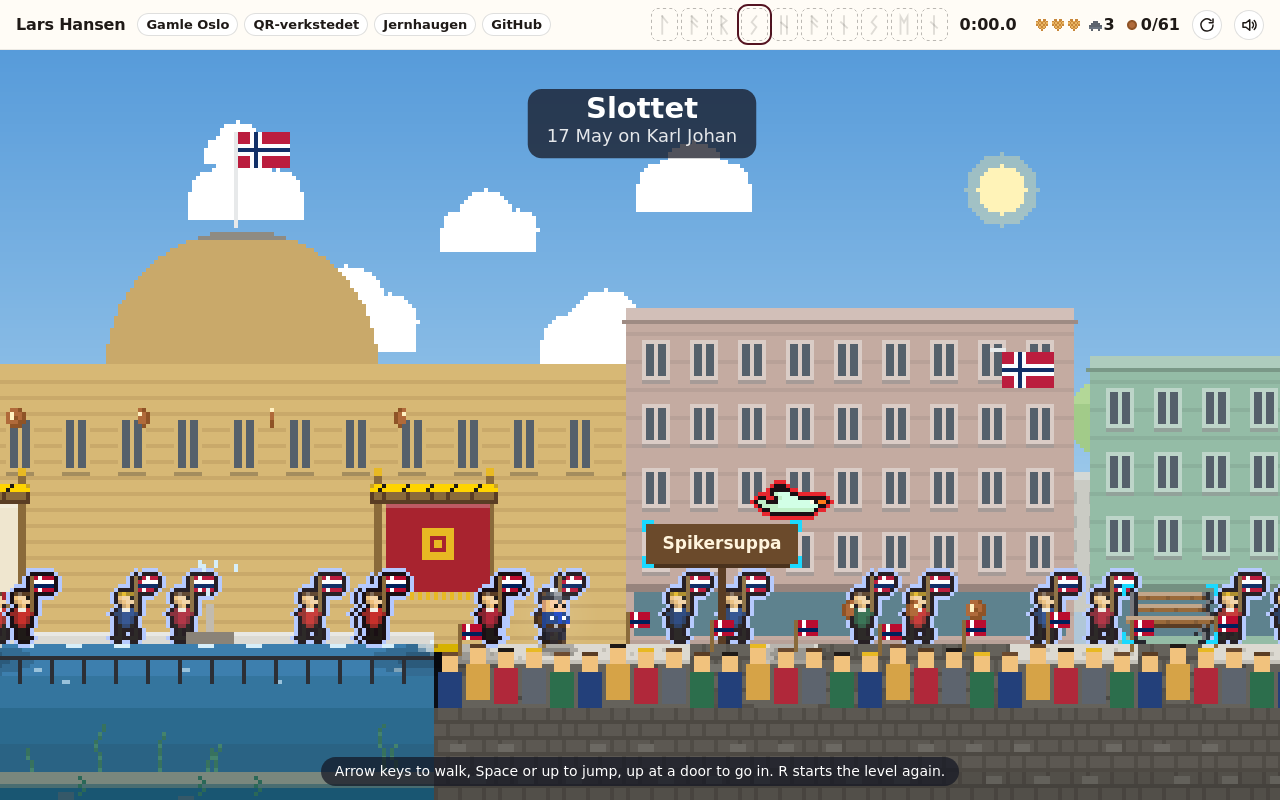
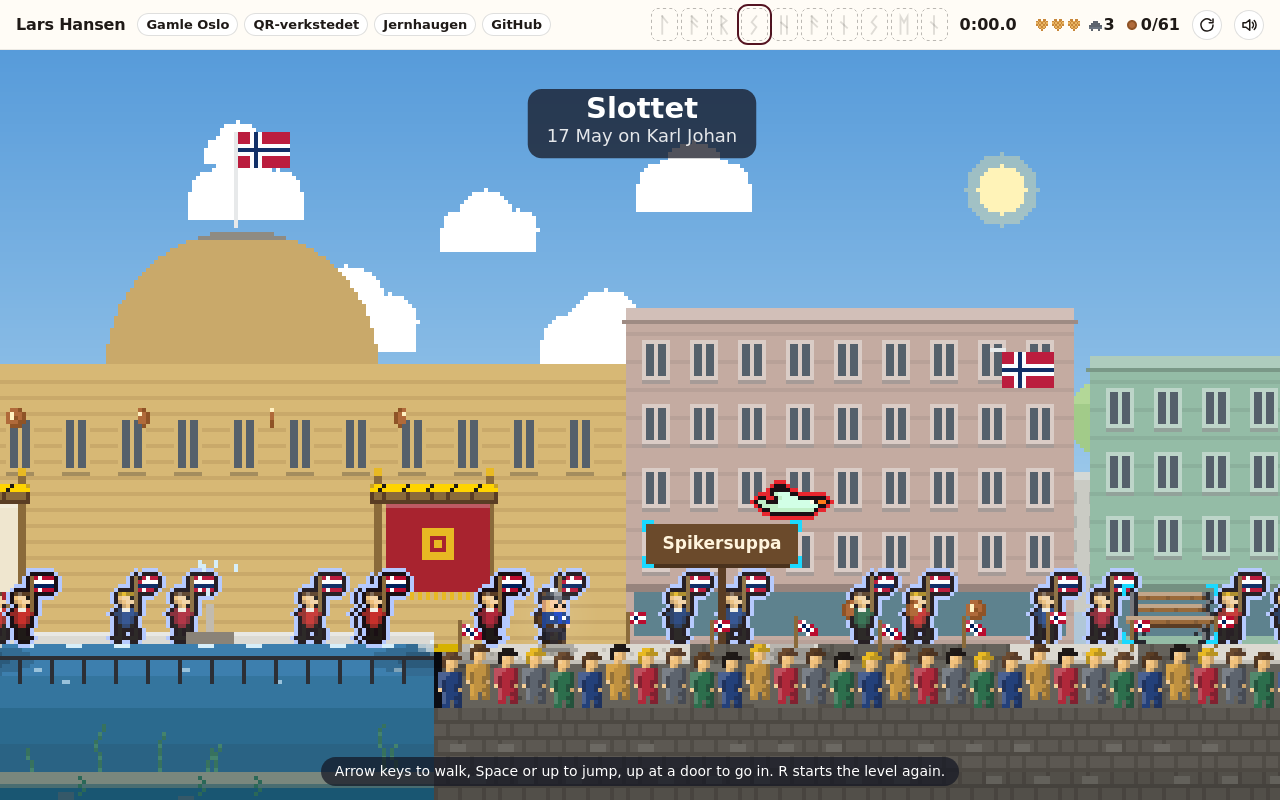
LEVELS.html's pictures taken again (the facts unchanged); the handover's order 25 section

Changed region(s): [[0.3438, 0.75, 1.0, 0.9062], [0.4688, 0.75, 0.5312, 0.7812], [0.8125, 0.75, 0.8438, 0.7812]]

diff --git a/docs/games/HANDOVER.md b/docs/games/HANDOVER.md
@@ -429,6 +429,32 @@ Order 24 (`orders/24-line-one-redrawn.md`; DESIGN's "Frames, shadows and depth";
   is for Lars to choose.
 - **Unplayed**: none of it has been seen at speed or on a phone.
 
+## Order 25: line 2 redrawn
+
+Order 25 (`orders/25-line-two-redrawn.md`; DESIGN's "Frames, shadows and depth"; numbers in `apps/viking/tools/review/o25/`). What to know:
+- **Everything that moves or is picked up is drawn as frames** (ADR 0045, carried through): line 2's own kinds in their levels'
+  files, the sea serpent (its head a map, its body, coils and tail in five tones of scale, every tell where it was), the heron,
+  line 2's shots; and what a walk through all sixteen levels and the map found still in rectangles: him lying back on the sledge
+  and the sledge (`levels/korketrekkeren.ts`), the crowds at Slottet and Holmenkollen (`person`, `crowdFlag` in
+  `alive/things.ts`, each copied), Bjørvika's welder. What is not drawn so is scenery, listed with its reason in
+  `tools/review/o25/old-style.md`. The mallard is shared by the river and the lake (`render/looks.ts`).
+- **A kept box**: a look drawn for the box its level keeps passes `fit` to `drawFoe` and is not squashed to it (Bjørvika's,
+  Gamlebyen's, the lake's coot, Stortinget's flying pigeon and track rat). `frames.test.ts` now also holds that every look
+  of every level is drawn pixel by pixel (its body in runs one pixel high).
+- **Vigelandsparken's statues** are one figure in four poses: watched, granite with lichen or bronze with verdigris in the
+  park's own tones; walking, the enemy's colours, eyes open, a stiff stride whose legs never meet. The moment one turns is
+  as before: colour, outline, the "!".
+- **The troll after dusk**: its two lightest tones are noted as it is drawn and drawn again, faint, over the forest's dark
+  (`overDark`), where the night's lights would not show (drawing only).
+- **Looking at things**: `tools/glance/serpent.ts` (the serpent in every state), `states.ts` (a look in chosen states: a
+  watched statue, a calm swan, a guard as stone), `line2shots.ts` (the addresses for the pictures in place, the serpent's
+  states along the route among them), `frames.ts` (line 2's shots and the heron too); `?debug&fall=<steps>[&gold]` shows the
+  maze's feather falling onto him.
+- **First script** unchanged, 58.86 kB gzipped. **Speed**: against order 23's table no place rose more than 10 rectangles a
+  frame (Nordmarka's dark) and none draws over 11,466; the crowds draw 150 to 270 fewer (each person copied); the troll's fight
+  after dusk +78, the serpent's +11 to +19 (`tools/review/o25/perf.md`).
+- **Unplayed**: none of it has been seen at speed or on a phone.
+
 ## Known weak spots, as of order 16
 
 Most important first. Lars had not yet played when this was written; expect his comments to
